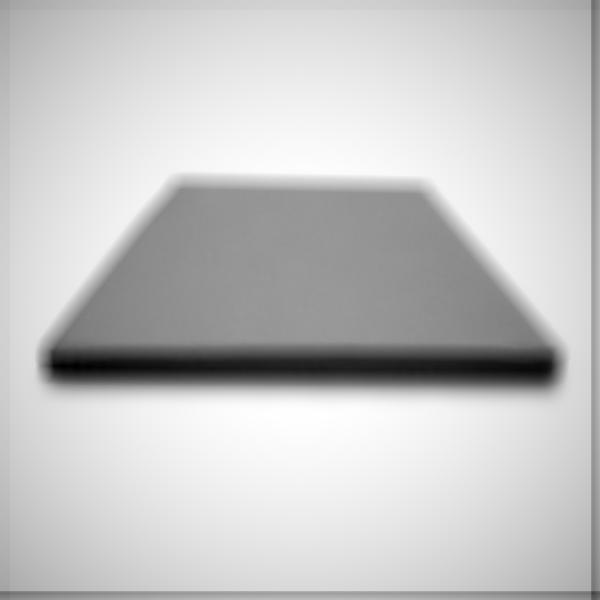
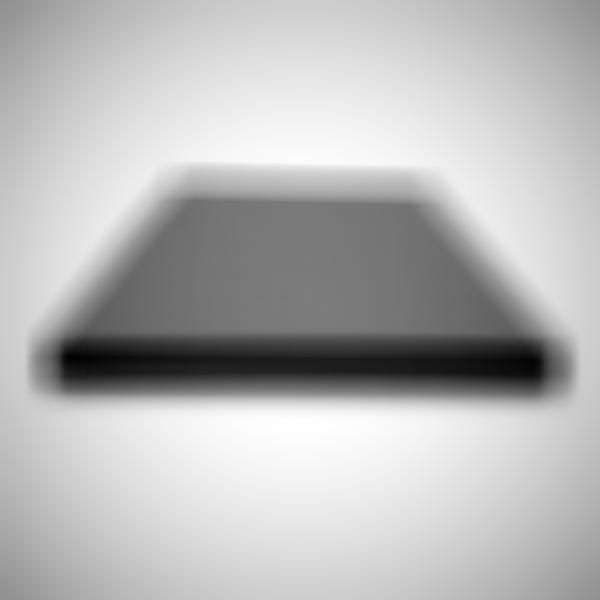
changed the search a square rather than a circle and refined / fixed calculate_pixel_error

Changed region(s): [[0.0, 0.0, 1.0, 1.0], [0.27, 0.27, 0.72, 0.3], [0.15, 0.3, 0.27, 0.45]]

diff --git a/main.py b/main.py
@@ -9,7 +9,7 @@ TARGET = (255, 0, 0)
 #importance of surrounding searched pixels when calculating error
 DISTANCE_BIAS = 0.1
 #radius searched around each pixel adding to its potential error
-DISTANCE = 10
+DISTANCE = 20
 
 
 def main():
@@ -42,28 +42,31 @@ def calculate_pixel_error(p, px, py, dist, bias_array, width, height):
     sum_error = 0
     individual_error = 0
 
-    for x in range(max(0, px - dist), min(int(width), px + dist)):
-        for y in range (max(0, py - dist), min(int(height), py + dist)):
-            if (math.sqrt((x - px) ** 2 + (y - py) ** 2) > dist): continue
+    surrounding_x = 0
+    surrounding_y = 0
+    for x in range(px - dist, px + dist):
+        for y in range (py - dist, py + dist):
+            surrounding_x = x
+            surrounding_y = y
+            if (x < 0):
+                surrounding_x = 0
+            elif (x > width - 1):
+                surrounding_x = width - 1
+            if (y < 0):
+                surrounding_y = 0
+            elif (y > height - 1):
+                surrounding_y = width - 1
             if (px == x and py == y):
                 individual_error = abs((abs(p[x, y][0] - TARGET[0]) +
                                             abs(p[x, y][0] - TARGET[1]) +
                                             abs(p[x, y][0] - TARGET[2])))
             else:
-                individual_error = abs(bias_array[x][y] *
-                                                (abs(p[x, y][0] - TARGET[0]) +
-                                                abs(p[x, y][0] - TARGET[1]) +
-                                                abs(p[x, y][0] - TARGET[2])) *
+                individual_error = abs(bias_array[surrounding_x][surrounding_y] *
+                                                (abs(p[surrounding_x, surrounding_y][0] - TARGET[0]) +
+                                                abs(p[surrounding_x, surrounding_y][0] - TARGET[1]) +
+                                                abs(p[surrounding_x, surrounding_y][0] - TARGET[2])) *
                                                 DISTANCE_BIAS * ((x - px) ** 2 + (y - py) ** 2) / dist)
             sum_error += individual_error
-
-            #if the pixel is around the edge, add more error
-            if (px + (px - x) > width or px - (x - px) < 0):
-                sum_error += individual_error
-            if (py + (py - y) > height or py - (y - py) < 0):
-                sum_error += individual_error
-            if ((px + (px - x) > width or px - (x - px) < 0) and (py + (py - y) > height or py - (y - py) < 0)):
-                sum_error += individual_error
 
     return sum_error
 
@@ -154,10 +157,8 @@ def make_bias_array(image, bias):
     """
     bias_array = [[0 for _ in range(image.width)] for _ in range(image.height)]
 
-    for x in range(image.width):
-        for y in range (image.height):
-            # bias_array[x].insert(y, 0.5 * (((-math.sin(abs(x - (image.width / 2)) / image.height * math.pi / 2 * bias + math.pi / 2 - math.pi / 2 * bias)) + 1) +
-            #                                 ((-math.sin(abs(y - (image.height / 2)) / image.height * math.pi / 2 * bias + math.pi / 2 - math.pi / 2 * bias)) + 1)))
+    for x in range(image.height):
+        for y in range (image.width):
             bias_array[x].insert(y, 0.5 * (
                 -(((1 - bias) / ((image.width / 2) ** 2)) * ((x - image.width / 2) ** 2) - 1) -
                 (((1 - bias) / ((image.height / 2) ** 2)) * ((y - image.height / 2) ** 2) - 1)
@@ -172,12 +173,17 @@ if __name__ == "__main__":
 """
 Bugs:
 whenever pixels near the edge are evaluated, the distortion effect reflects over the axis
-    (edged are over-accounted for)
+    (edged are over-accounted for) - x is only too great when the search is near the end (?)
 check for when a loop should be incremented by 1 at the end
 find_target_pixel does not currently work
-no distortion bias leans to "sharp edges" meaning the radius saerched may be less (?)
-    solution: add a check for distortion
+width and height swapped in multiple instances
+radius and distance bias should change proportionatlly to eachother
 
 Optimization:
 utilize numpy matrices rather than for loops
+condense and organize parameters
+
+Code that may be needed:
+if (math.sqrt((x - px) ** 2 + (y - py) ** 2) > dist): continue
+-makes the search radius a circle
 """
